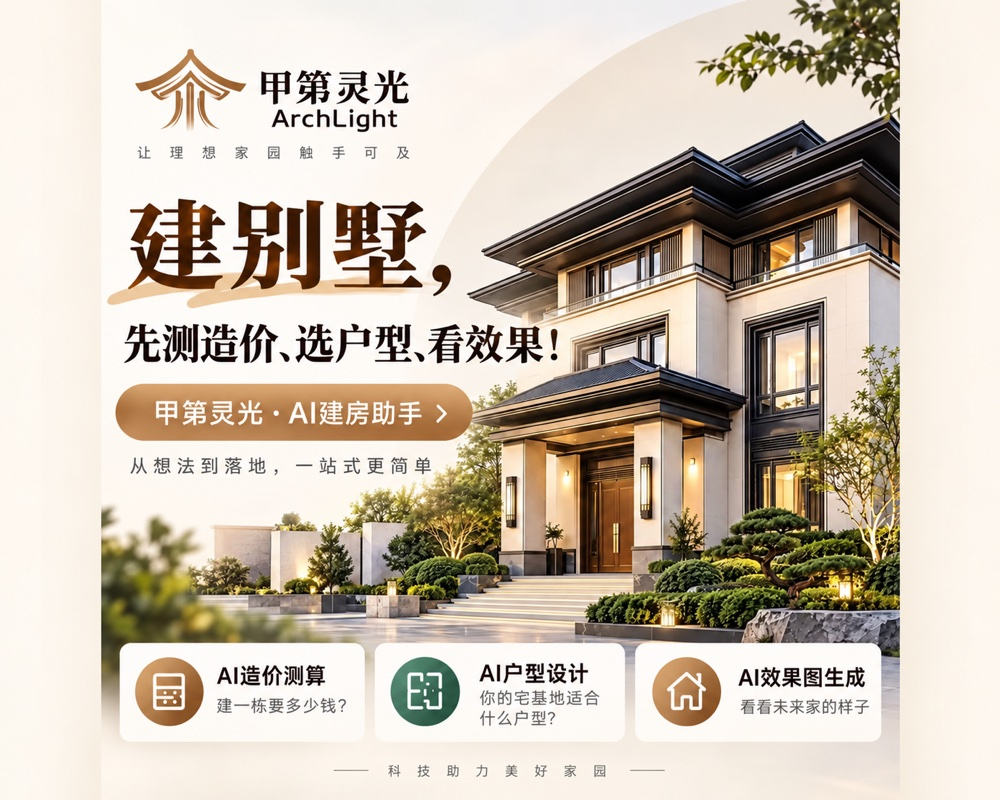
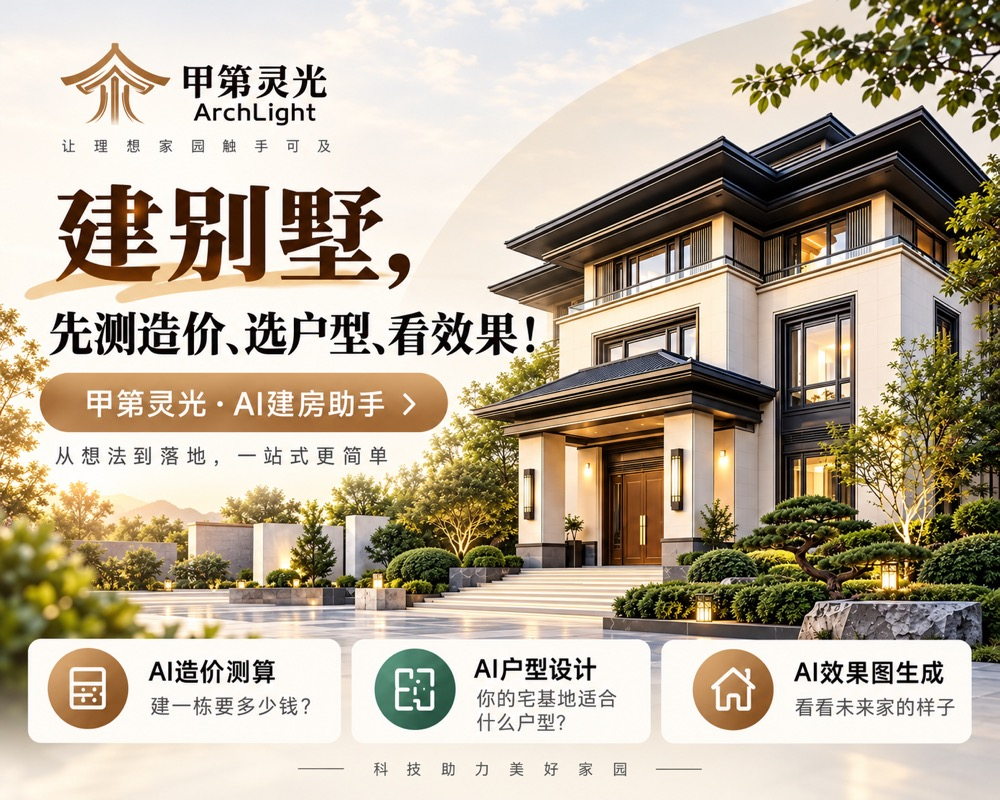
让分享宣传图铺满现有横向卡片
按用户反馈重新制作5:4横向构图，去掉方形海报两侧补白，保留品牌、建房文案和三项功能。
使用内置imagegen制作封面，更新资产说明，复用现有分享配置。

Constraint: 好友分享底图保持1000×800像素
Confidence: 高
Scope-risk: 窄
Reversibility: 可完整回退
Tested: 尺寸1000×800核对通过，7项分享回归测试通过，差异格式检查及逆向补丁检查通过，变更未引入代码或依赖
Not-tested: 体验版未上传，微信真机分享效果待验证

diff --git a/miniprogram/README.md b/miniprogram/README.md
@@ -4,12 +4,12 @@
 
 在首页通过微信右上角菜单分享，标题为“甲第灵光 · AI建房助手”，接收者点击后进入首页。
 
-- 好友和群聊：`miniprogram/assets/share/home-chat.jpg`，1000 × 800，适配 5:4 分享卡片。
+- 好友和群聊：`miniprogram/assets/share/home-chat.jpg`，1000 × 800，适配 5:4 分享卡片，使用铺满画布的横向构图。
 - 朋友圈：`miniprogram/assets/share/home-timeline.jpg`，使用用户提供的 1280 × 1280 方形原图。
 
 封面随代码包上传。`project.config.json` 的 `packOptions.include` 显式包含 `assets/share`，避免开启 `ignoreUploadUnusedFiles` 后分享图片被遗漏。
 
-好友封面通过内置 `imagegen` 工具适配，再编码为 JPEG。提示要求：保留方形参考图的品牌、完整中文文案、别墅及三项功能，在左右增加米白边距以适配 5:4，不增加文字或物体。朋友圈直接使用原图。
+好友封面通过内置 `imagegen` 工具重新排版，再编码为 JPEG。提示要求：保留参考图的品牌、完整中文文案、别墅及三项功能，将别墅场景和宣传背景铺满 5:4 横向画布，不加两侧补白、方形内框或新文案。朋友圈直接使用原图。
 
 微信控制卡片外框、小程序名称及版本标识；应用配置控制分享标题与封面。朋友圈按微信的方形缩略图展示。
 
